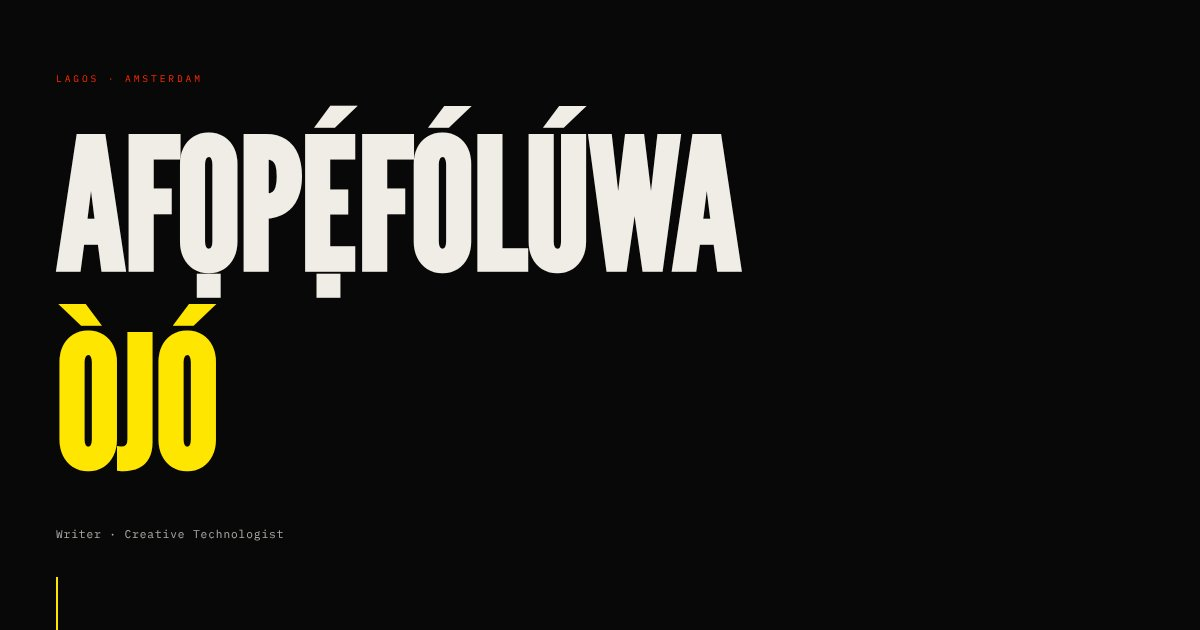
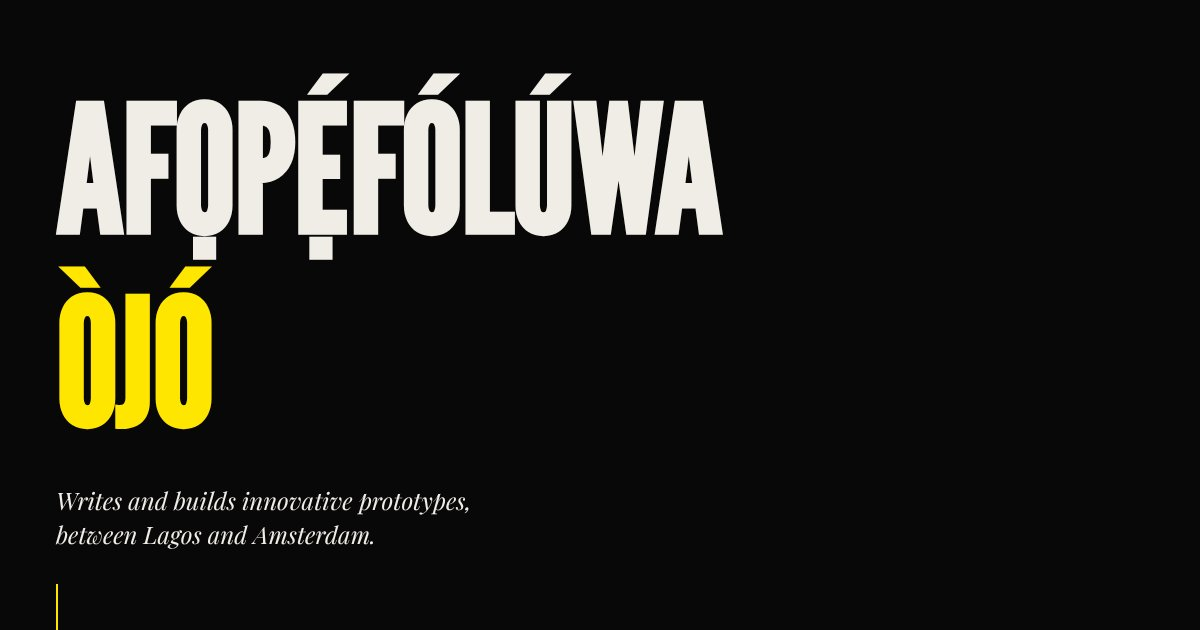
Put the bio under the name; drop the About section and Syne
- The one-line bio sits under the name in Playfair italic, like an
  opening line; ita.ng is no longer mentioned.
- Remove the About section ("Engineer · Poet · Interface") and its
  menu link; the first screen now does that job.
- Replace Syne with Playfair everywhere: three typefaces in total.
- Refresh the link preview to match.

Claude-Session: https://claude.ai/code/session_01Qu3bY3y2FBLsFQeeGwddpM

Changed region(s): [[0.0308, 0.1206, 0.6167, 0.754], [0.0308, 0.7841, 0.4008, 0.8143], [0.0308, 0.8444, 0.3083, 0.8746]]

diff --git a/index.html b/index.html
@@ -12,7 +12,7 @@
 <meta property="og:image" content="https://afopefoluwaojo.com/media/og.jpg">
 <meta name="twitter:card" content="summary_large_image">
 <link rel="preconnect" href="https://fonts.googleapis.com">
-<link href="https://fonts.googleapis.com/css2?family=League+Gothic&family=Playfair+Display:ital,wght@0,700;0,900;1,400;1,700&family=Syne:wght@400;700;800&family=IBM+Plex+Mono:ital,wght@0,400;0,500;1,400&display=swap" rel="stylesheet">
+<link href="https://fonts.googleapis.com/css2?family=League+Gothic&family=Playfair+Display:ital,wght@0,700;0,900;1,400;1,700&family=IBM+Plex+Mono:ital,wght@0,400;0,500;1,400&display=swap" rel="stylesheet">
 <style>
 *, *::before, *::after { margin: 0; padding: 0; box-sizing: border-box; }
 
@@ -33,7 +33,7 @@ section[id], footer[id] { scroll-margin-top: 60px; }
 body {
   background: var(--black);
   color: var(--white);
-  font-family: 'Syne', sans-serif;
+  font-family: 'Playfair Display', serif;
   cursor: none;
   overflow-x: hidden;
 }
@@ -115,12 +115,6 @@ main { padding-top: 60px; }
   padding: 4rem 2.5rem 0;
   position: relative; overflow: hidden;
 }
-.hero-eyebrow {
-  font-family: 'IBM Plex Mono', monospace;
-  font-size: .6rem; color: var(--red);
-  letter-spacing: .3em; text-transform: uppercase;
-  margin-bottom: 1.2rem;
-}
 .hero-name {
   font-family: 'League Gothic', sans-serif; text-transform: uppercase;
   /* the first name spans the width (it is ~3.8em wide), capped by height */
@@ -128,11 +122,11 @@ main { padding-top: 60px; }
   line-height: 1.1; letter-spacing: -.01em;
 }
 .hero-name .y { color: var(--yellow); }
-.hero-sub {
-  margin-top: 1.5rem;
-  font-family: 'IBM Plex Mono', monospace;
-  font-size: .7rem; color: var(--white); opacity: .7;
-  letter-spacing: .08em; line-height: 1.9;
+.hero-bio {
+  margin-top: 1.6rem; max-width: 34ch;
+  font-family: 'Playfair Display', serif; font-style: italic;
+  font-size: clamp(1.15rem, 2vw, 1.6rem); line-height: 1.45;
+  color: var(--white);
 }
 /* The thread that runs from the name down into the gallery path */
 .hero-thread {
@@ -433,37 +427,6 @@ body.entered .hero-thread { animation: drawDown 1.8s cubic-bezier(.16,1,.3,1) .2
   border-bottom: 1px solid #111; padding-bottom: 2px;
 }
 
-/* ─── ABOUT ─── */
-#about {
-  border-top: 1px solid var(--mid);
-  padding: 6rem 2.5rem;
-  display: grid; grid-template-columns: 1fr 2fr;
-  gap: 4rem; align-items: start;
-}
-.about-big {
-  font-family: 'League Gothic', sans-serif; text-transform: uppercase;
-  font-size: clamp(3.5rem, 8vw, 7.5rem);
-  line-height: .87; color: var(--white);
-}
-.about-big .y { color: var(--yellow); }
-.about-text {
-  font-family: 'Syne', sans-serif;
-  font-size: clamp(.9rem, 1.4vw, 1.05rem);
-  line-height: 1.8; color: var(--white); opacity: .65;
-}
-.about-text + .about-text { margin-top: 1.2rem; }
-.about-text strong { color: var(--white); opacity: 1; font-weight: 700; }
-.tag-cloud { display: flex; flex-wrap: wrap; gap: .4rem; margin-top: 1.8rem; }
-.atag {
-  font-family: 'IBM Plex Mono', monospace;
-  font-size: .55rem; letter-spacing: .15em;
-  text-transform: uppercase; padding: .35rem .75rem;
-  border: 1px solid var(--mid); color: var(--white); opacity: .65;
-  transition: opacity .2s, border-color .2s, color .2s;
-  cursor: default;
-}
-.atag:hover { opacity: 1; border-color: var(--yellow); color: var(--yellow); }
-
 /* ─── FOOTER ─── */
 footer {
   padding: 5rem 2.5rem 3rem;
@@ -485,7 +448,7 @@ footer {
   transition: padding-left .3s;
 }
 .fl:hover { padding-left: .5rem; }
-.fl-name { font-family: 'Syne', sans-serif; font-size: 1rem; font-weight: 700; }
+.fl-name { font-family: 'Playfair Display', serif; font-size: 1.15rem; font-weight: 700; }
 .fl-arr {
   font-family: 'IBM Plex Mono', monospace; font-size: .7rem;
   opacity: .6; transition: opacity .3s, color .3s;
@@ -522,7 +485,7 @@ footer {
   border-bottom: 1px solid var(--mid);
 }
 .subscribe-label {
-  font-family: 'Syne', sans-serif;
+  font-family: 'Playfair Display', serif;
   font-size: 1rem; font-weight: 700;
   color: var(--white);
 }
@@ -654,7 +617,6 @@ footer {
   .tech-card:nth-child(even) .tc-frame { order: 0; }
   .tech-card:nth-child(even) .wall-label { justify-self: start; }
   .gallery-masthead { flex-direction: column; gap: .5rem; }
-  #about { grid-template-columns: 1fr; gap: 2rem; }
   footer { grid-template-columns: 1fr; }
   .nav-links { display: none; }
   .np-masthead { flex-direction: column; gap: .5rem; }
@@ -678,7 +640,6 @@ footer {
   <ul class="nav-links">
     <li><a href="#writing">Writing</a></li>
     <li><a href="#tech">Gallery</a></li>
-    <li><a href="#about">About</a></li>
     <li><a href="#contact">Contact</a></li>
   </ul>
 </nav>
@@ -687,11 +648,10 @@ footer {
 
 <!-- ─── HERO ─── -->
 <section id="hero">
-  <div class="hero-eyebrow">Lagos · Amsterdam</div>
   <h1 class="hero-name">
     afọpẹ́fólúwa<br><span class="y">òjó</span>
   </h1>
-  <p class="hero-sub">Writer · Creative Technologist</p>
+  <p class="hero-bio">Writes and builds innovative prototypes, between Lagos and Amsterdam.</p>
   <div class="hero-thread" aria-hidden="true"></div>
 </section>
 
@@ -872,23 +832,6 @@ footer {
   </div>
 </div>
 
-<!-- ─── ABOUT ─── -->
-<section id="about">
-  <div class="about-big reveal">
-    Engineer<br>
-    <span class="y">Poet</span><br>
-    Interface
-  </div>
-  <div>
-    <p class="about-text reveal">
-      <strong>Afọpẹ́fólúwa Òjó writes and builds innovative prototypes, between Lagos and Amsterdam.</strong>
-    </p>
-    <p class="about-text reveal">
-      She is building ita.ng, a lab where art and technology meet.
-    </p>
-  </div>
-</section>
-
 <!-- ─── FOOTER ─── -->
 <footer id="contact">
   <div class="footer-cta reveal">
@@ -929,7 +872,7 @@ document.addEventListener('mousemove', e => {
   cur.style.left = e.clientX + 'px';
   cur.style.top  = e.clientY + 'px';
 });
-document.querySelectorAll('a, .tech-card, .atag').forEach(el => {
+document.querySelectorAll('a, .tech-card').forEach(el => {
   el.addEventListener('mouseenter', () => cur.classList.add('expand'));
   el.addEventListener('mouseleave', () => cur.classList.remove('expand'));
 });
